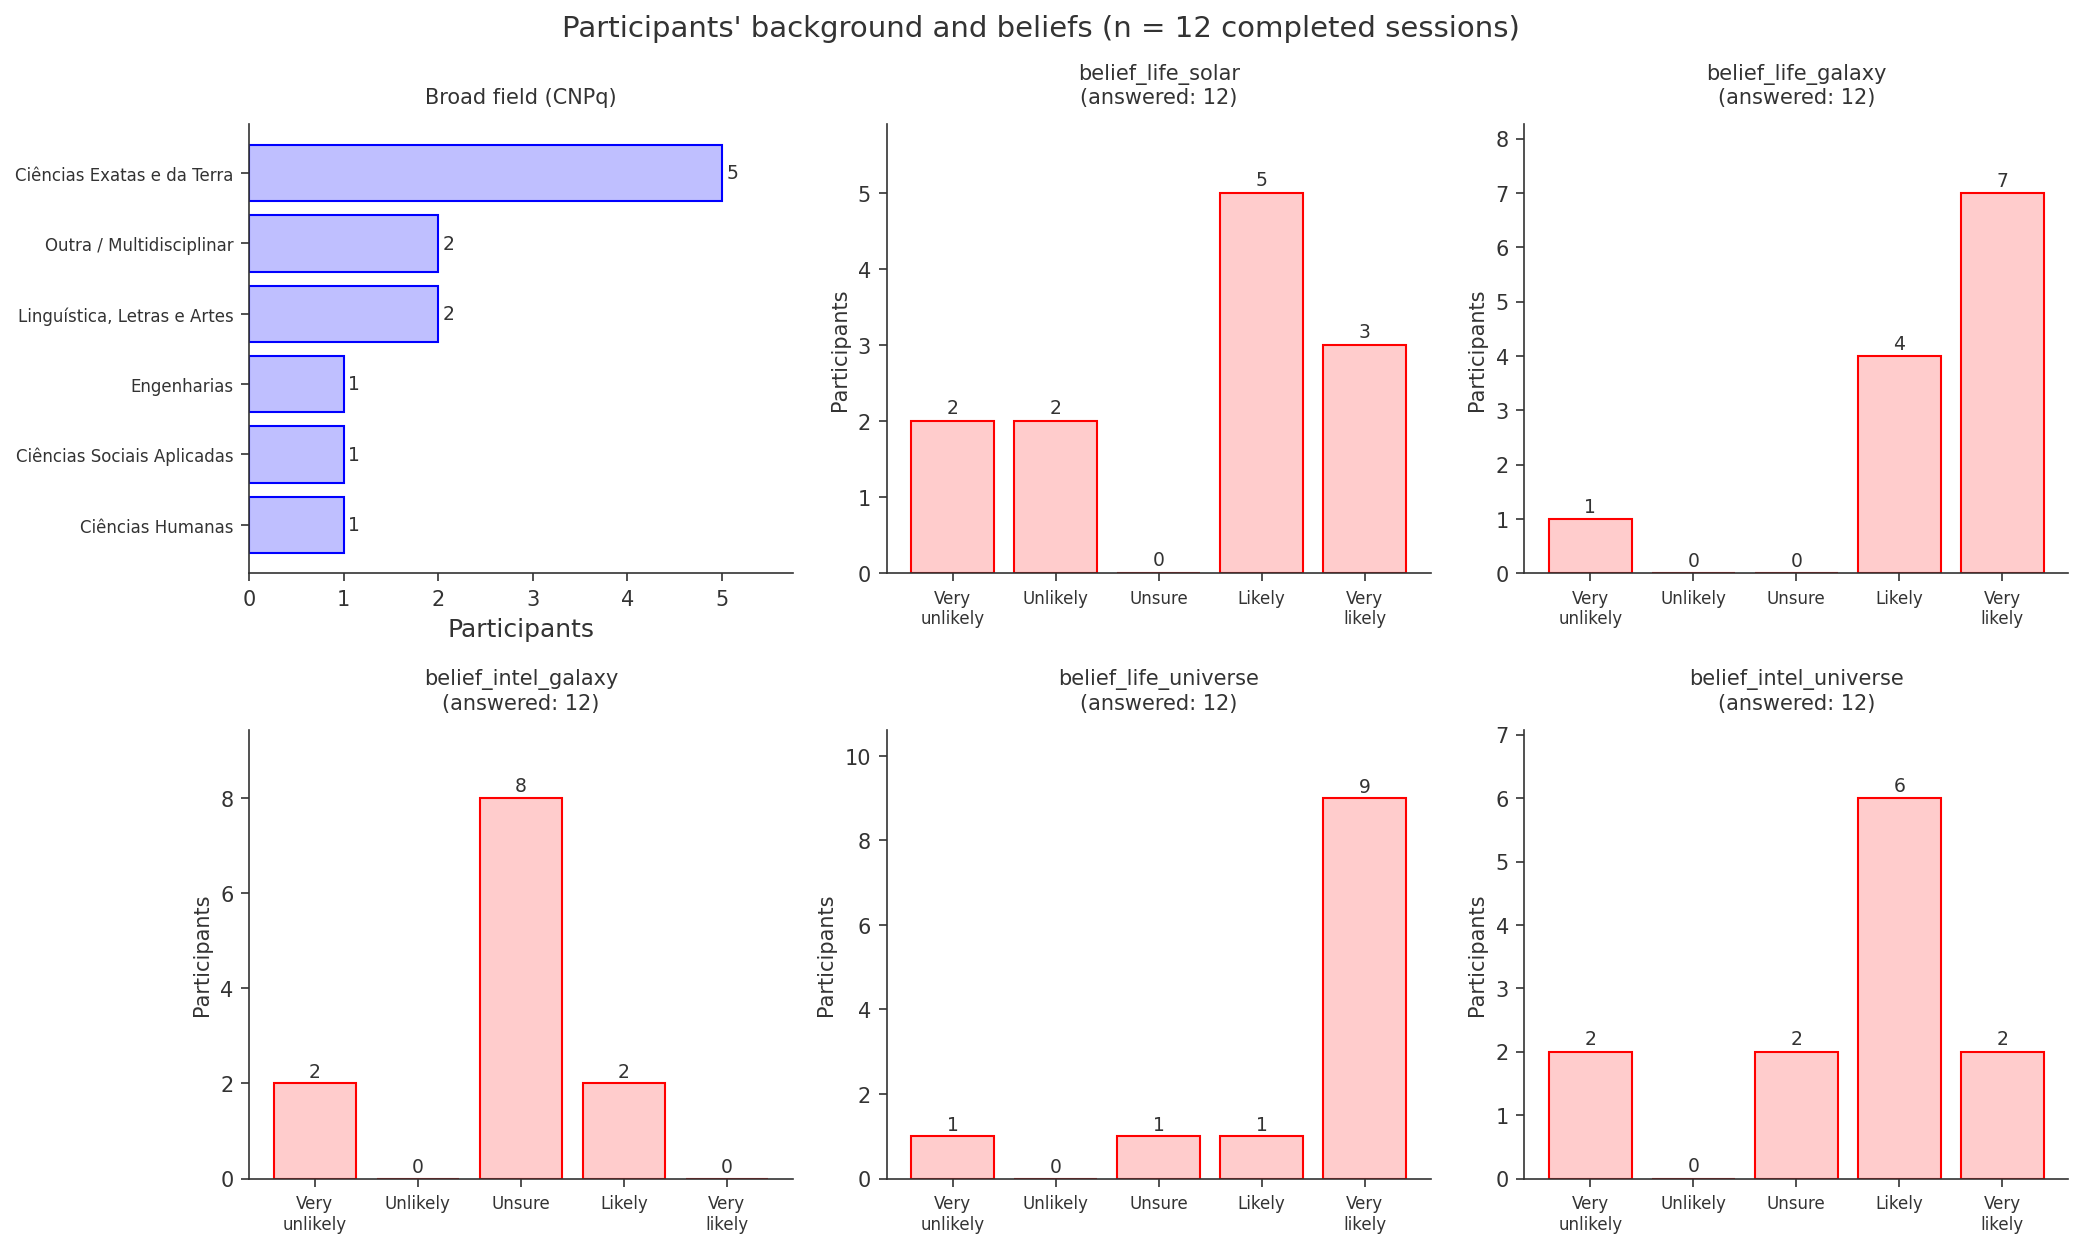
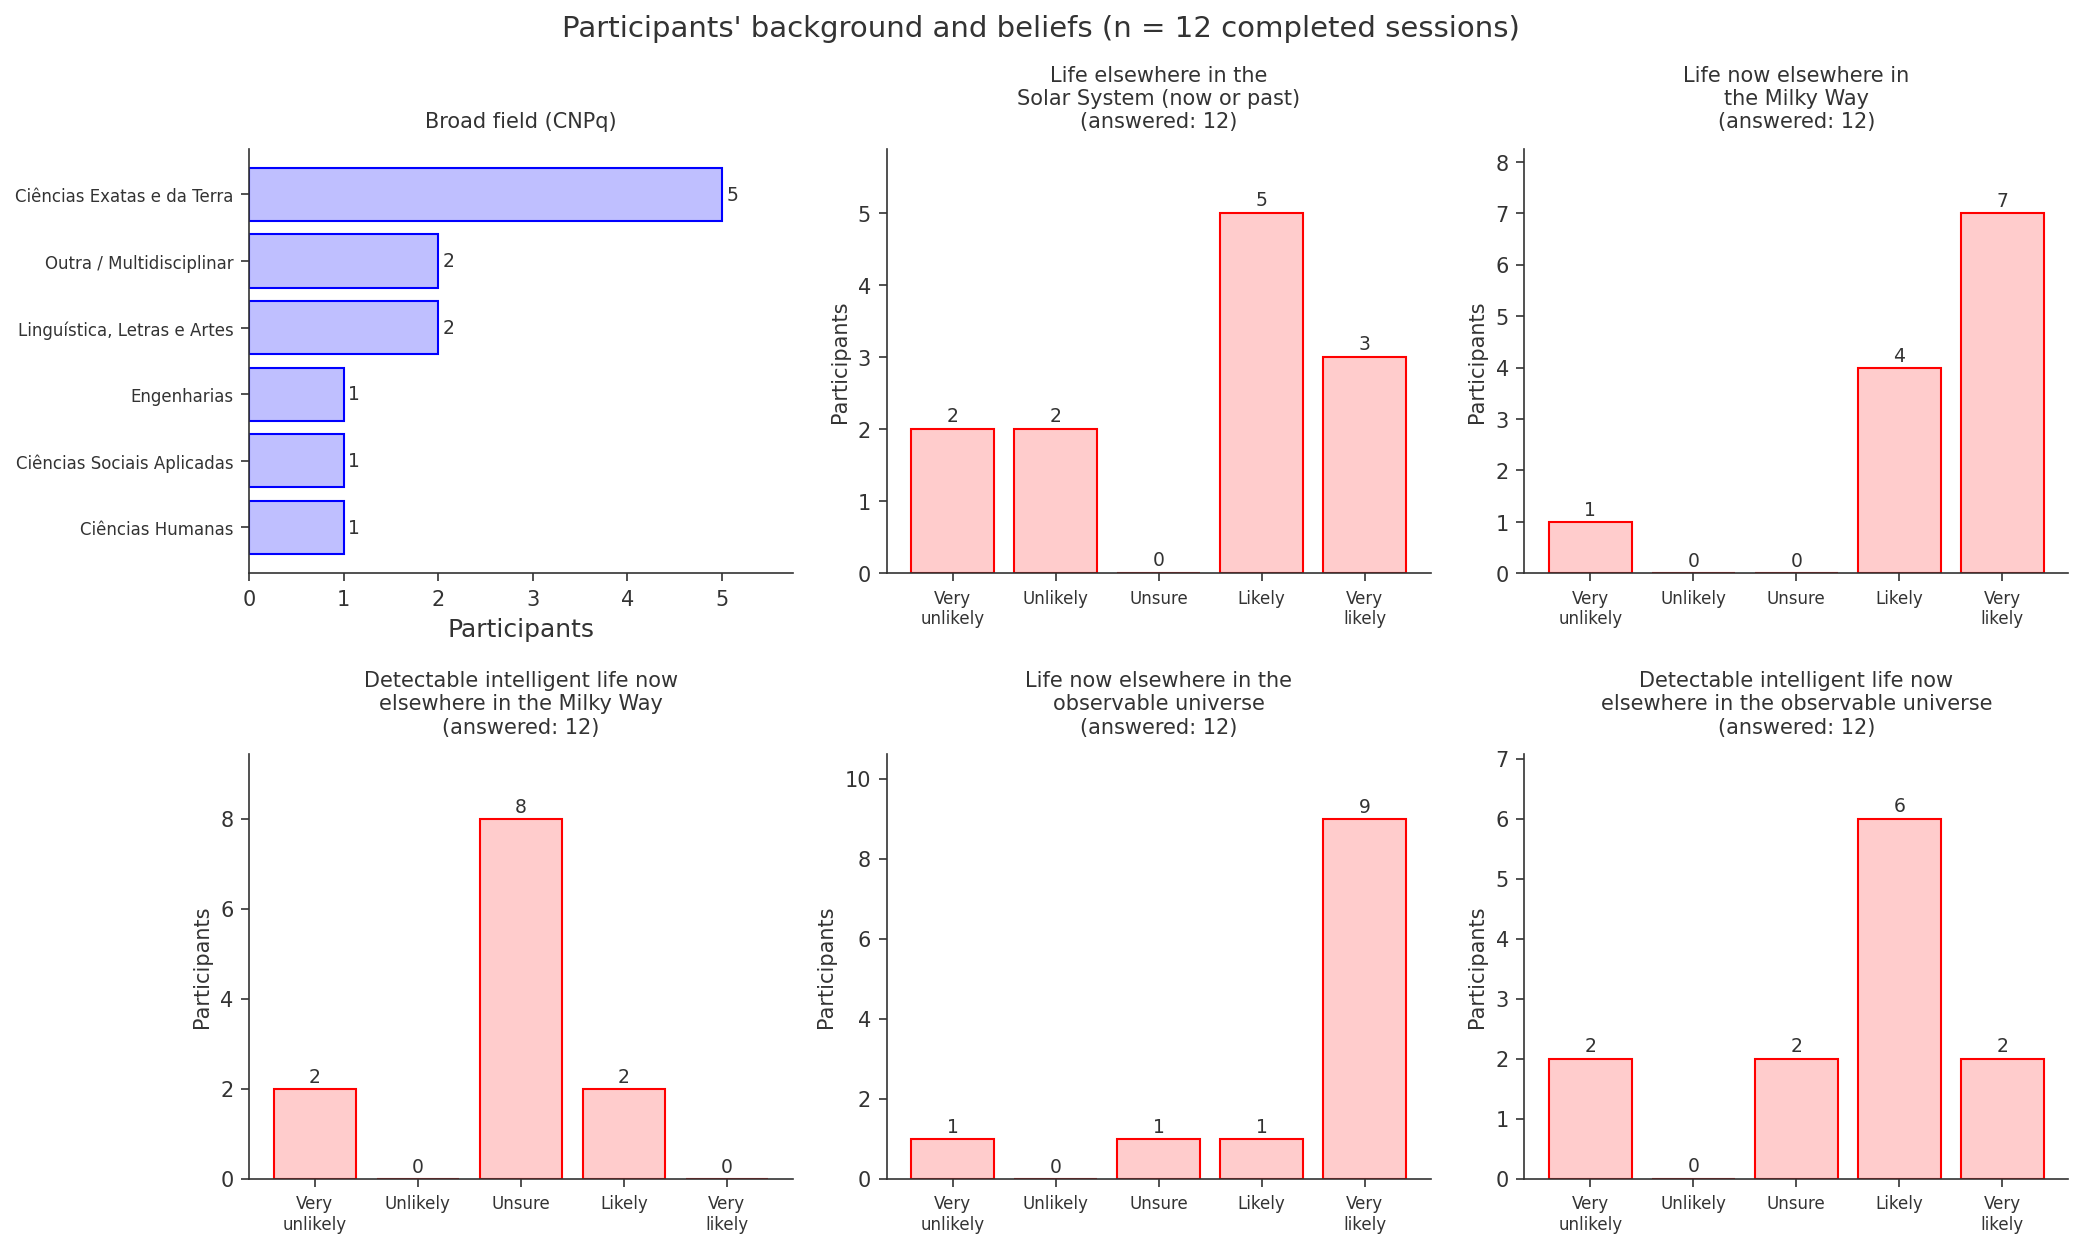
Fixing figures

diff --git a/analysis/drake_survey_analysis.py b/analysis/drake_survey_analysis.py
@@ -63,11 +63,11 @@ PARAM_LABELS = {
 }
 
 BELIEF_TITLES = {
-    "life_solar": "Life elsewhere in the\nSolar System (now or past)",
-    "life_galaxy": "Life now elsewhere in\nthe Milky Way",
-    "intel_galaxy": "Detectable intelligent life now\nelsewhere in the Milky Way",
-    "life_universe": "Life now elsewhere in the\nobservable universe",
-    "intel_universe": "Detectable intelligent life now\nelsewhere in the observable universe",
+    "belief_life_solar": "Life elsewhere in the\nSolar System (now or past)",
+    "belief_life_galaxy": "Life now elsewhere in\nthe Milky Way",
+    "belief_intel_galaxy": "Detectable intelligent life now\nelsewhere in the Milky Way",
+    "belief_life_universe": "Life now elsewhere in the\nobservable universe",
+    "belief_intel_universe": "Detectable intelligent life now\nelsewhere in the observable universe",
 }
 SCALE_ORDER = ["very_unlikely", "unlikely", "unsure", "likely", "very_likely"]
 SCALE_LABELS = ["Very\nunlikely", "Unlikely", "Unsure", "Likely", "Very\nlikely"]
@@ -596,7 +596,7 @@ def figure_cumulative_overlay(cum: dict, questions: list, out: Path, n_sessions:
     ax.axvline(5e-13, color="red", linestyle="dashed", linewidth=1.2)
     style_axis(ax, "Product of the first $k$ parameters", "Prob. density per decade",
                f"Adding one Drake parameter at a time (community, n = {n_sessions} participants)")
-    ax.legend(fontsize=8, frameon=False, loc="upper right", title="k : terms included", title_fontsize=8)
+    ax.legend(fontsize=8, frameon=False, loc="upper left", title="k : terms included", title_fontsize=8)
     plt.tight_layout()
     plt.savefig(out, bbox_inches="tight", dpi=150)
     plt.close(fig)
